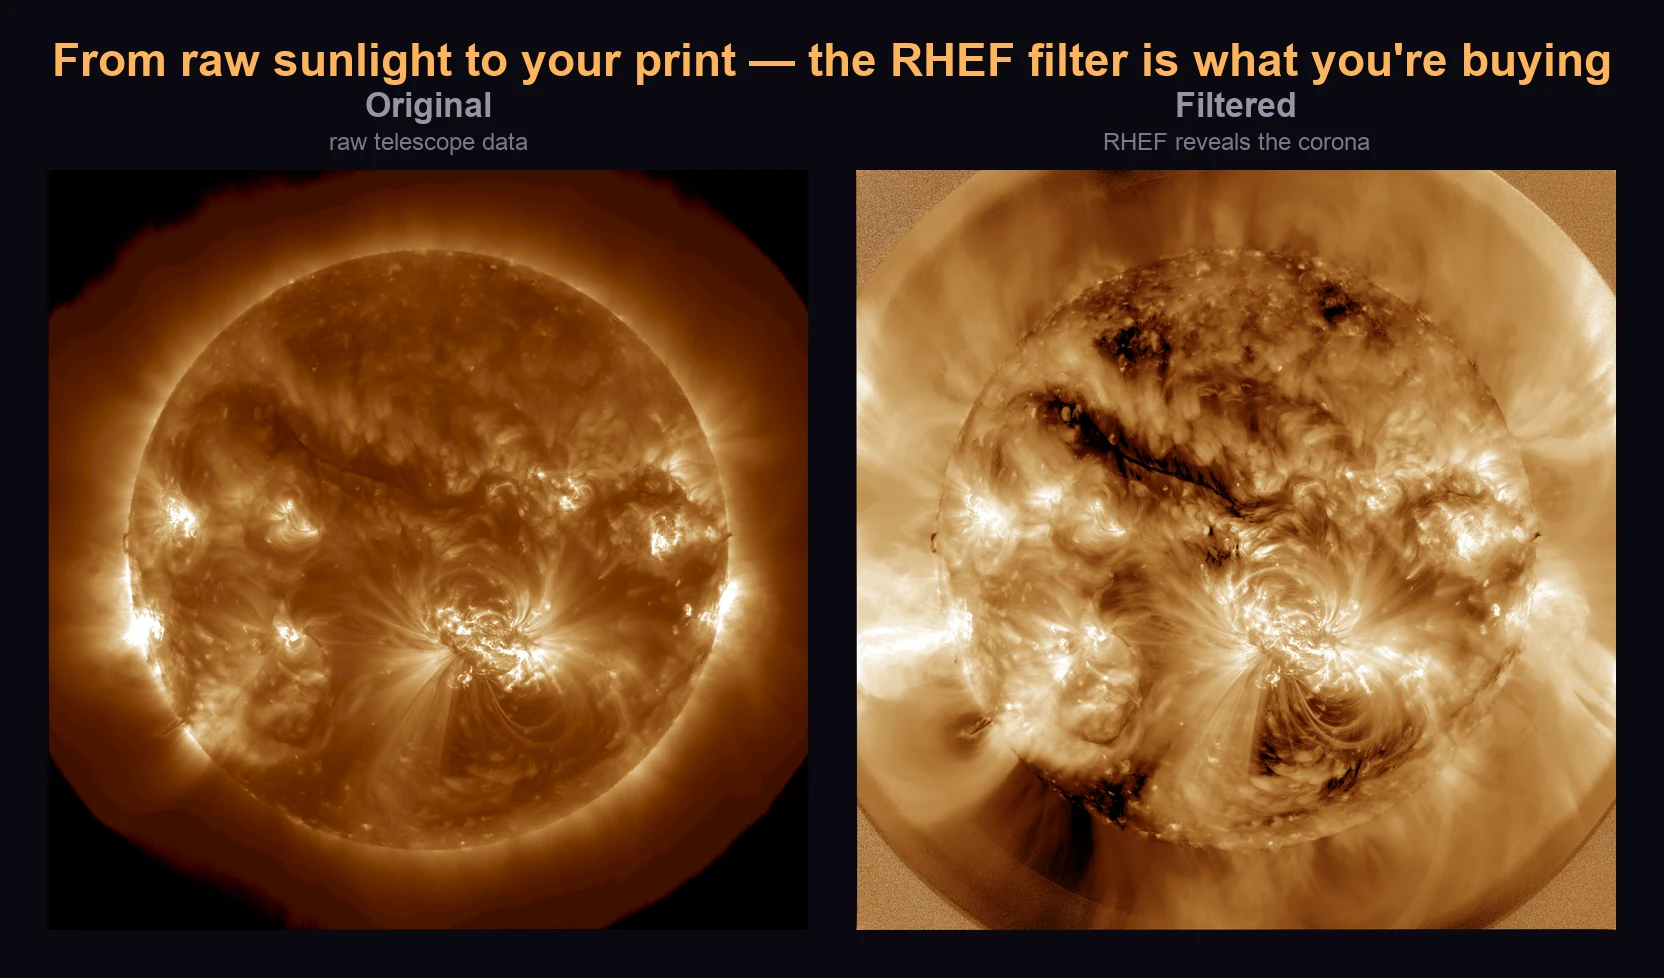
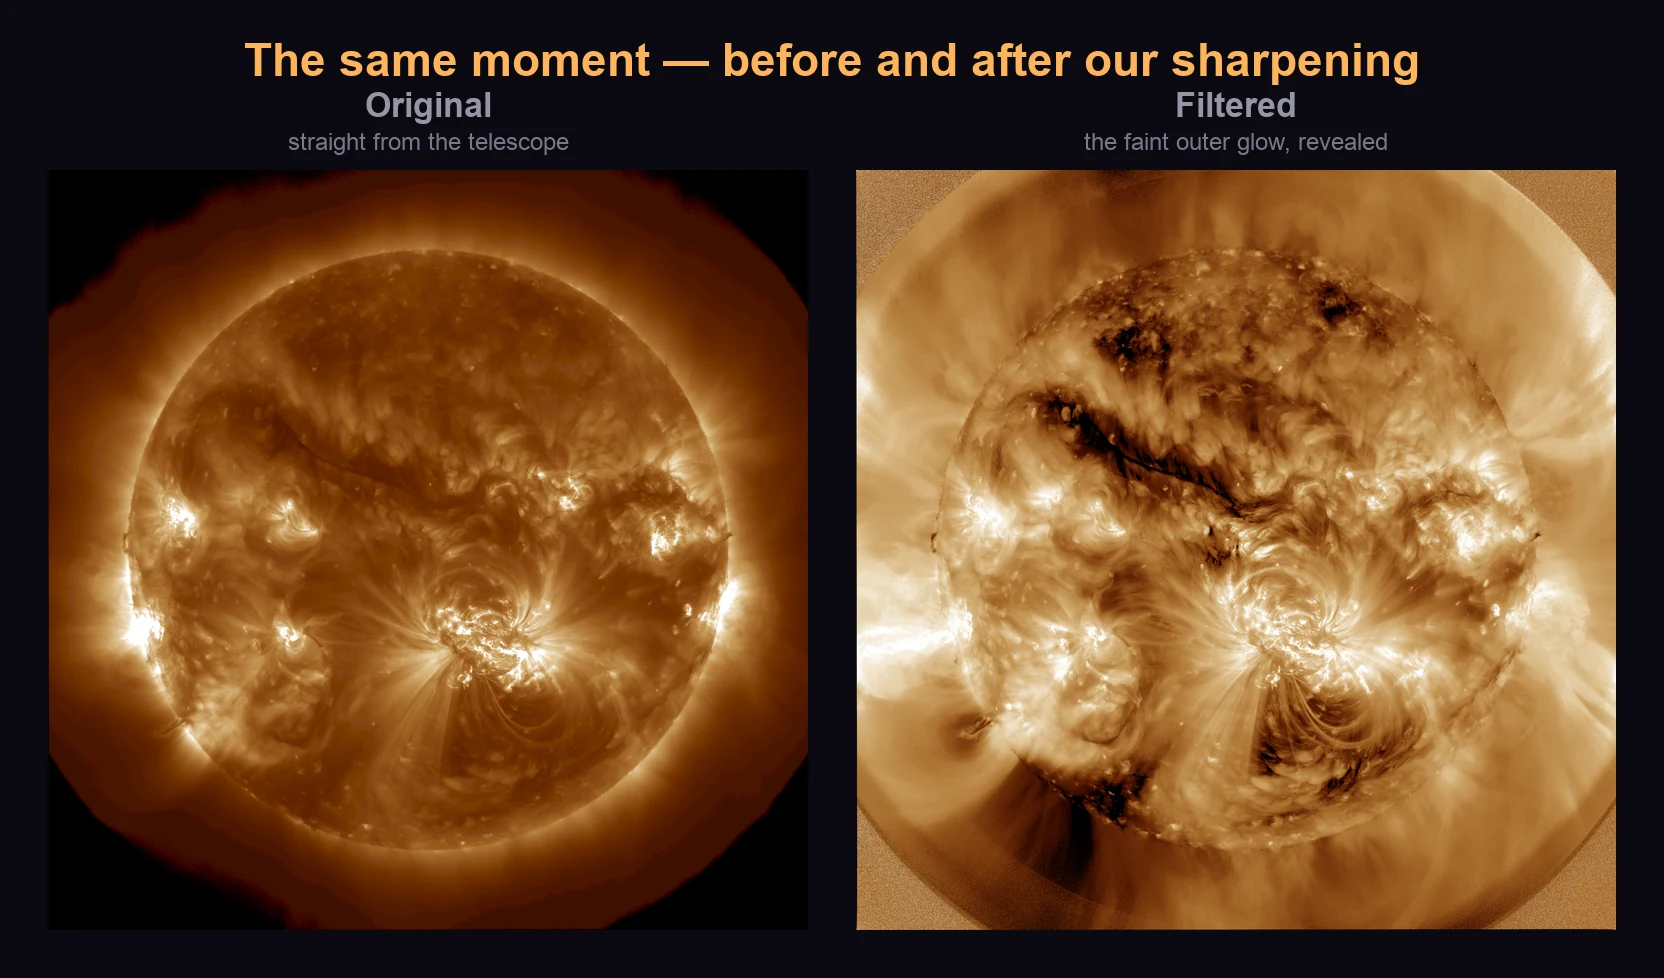
Plain language pass: translate the jargon both usability testers flagged
Both testers (2026-07-28) independently listed nearly the same ~15 unreadable
words, and it was the most-repeated complaint in each report. The one thing
both understood instantly was the Original/Filtered before-after image — so
the strategy is: lead with the picture and plain words, keep the science but
demote it. Nothing scientific is claimed that wasn't already true.

Above the shop (the worst offender). The caption was the second thing on the
page and packed four unknown words into one sentence — "Every print runs
through our RHEF filter — the algorithm that pulls the faint corona out of raw
telescope data. The HQ version is a multi-frame stack rendered at full 4K."
One tester said she thought she'd landed on a university site by mistake. Now
it just explains the picture ("Left is the raw telescope photo. Right is the
same moment after our sharpening step…"), with the method + citation moved to
a quiet fine-print line beneath. The showcase image itself was regenerated —
its baked-in headline said "the RHEF filter is what you're buying" and its
panel captions said "RHEF reveals the corona".

Wavelength tiles. Nine tiles reading "94 Å / Green · 6.3MK / Hot flaring
plasma" were called unreadable by both; one asked for "Green / Golden / Amber
with a one-word mood". The colour now leads, the description says what the
PICTURE looks like (Flare hotspots, Feathery arcs, The classic Sun, Fiery rim
& arcs…), and the ångström value stays on the tile in a quiet .wl-sci span.
[…]

Changed region(s): [[0.0312, 0.0307, 0.9688, 0.092], [0.6562, 0.1227, 0.8438, 0.1534], [0.1562, 0.1227, 0.3438, 0.1534]]

diff --git a/api/index.html b/api/index.html
@@ -133,8 +133,16 @@
        RHEF filter reads as the core innovation (not just a print-time detail).
        Static edge asset (~0.37 MB WebP); zero backend. -->
   <div class="section quality-strip-section" id="qualityStrip">
-    <img src="/asset/default/quality_strip.webp" alt="The same Sun shown before and after processing: Original (raw telescope data) and Filtered (the RHEF algorithm revealing the corona)." loading="lazy" />
-    <p class="quality-strip-caption">Every print runs through our <strong>RHEF filter</strong> — the algorithm that pulls the faint corona out of raw telescope data. The <strong>HQ</strong> version is a multi-frame stack rendered at full 4K for your print.</p>
+    <img src="/asset/default/quality_strip.webp" alt="The same Sun shown before and after processing: the original telescope photo, and the sharpened version that brings out the faint outer atmosphere." loading="lazy" />
+    <!-- Plain language first, science second. This caption is the second thing
+         on the page, above the shop, and a non-technical tester hit four
+         unknown words in one sentence here (RHEF, corona, multi-frame stack,
+         4K) and said she thought she'd landed on a university site. The
+         before/after image was the ONE thing every tester understood instantly,
+         so the caption now just explains the picture; the method + citation
+         moved to the quiet line beneath. (Usability sweep, 2026-07-28.) -->
+    <p class="quality-strip-caption">Left is the raw telescope photo. Right is the same moment after our sharpening step, which lifts the Sun&rsquo;s faint outer glow out of the dark. <strong>Every print gets the version on the right.</strong></p>
+    <p class="quality-strip-fineprint">The technique is called RHEF &mdash; published solar-physics research (Gilly et al. 2025), not a filter preset. Prints are rendered at full 4K.</p>
   </div>
 
   <div class="section" id="productSection">
@@ -144,7 +152,7 @@
     </div>
 
     <p id="productSectionIntro" style="color:var(--text-secondary);font-size:13px;margin-bottom:12px;">
-      Every preview is a real Printify mockup. The orange Sun is a sample &mdash; pick a product and you'll choose your own Sun image next.
+      These are real product photos. The Sun shown is just an example &mdash; pick a product and you&rsquo;ll choose your own Sun image next.
     </p>
 
     <div class="product-grid" id="productGrid"></div>
@@ -233,7 +241,7 @@
                user can't pick a future date. min is SDO/AIA first light. -->
           <input type="date" id="vibeBirthdayInput" class="vibe-birthday-input"
                  min="2010-05-15" aria-describedby="vibeBirthdayHint">
-          <label for="vibeBirthdayTime" class="vibe-birthday-label">Time — UTC (optional)</label>
+          <label for="vibeBirthdayTime" class="vibe-birthday-label">Time of day (optional)</label>
           <input type="time" id="vibeBirthdayTime" class="vibe-birthday-input"
                  aria-describedby="vibeBirthdayHint">
           <button type="button" id="vibeBirthdaySubmit" class="vibe-birthday-submit">
@@ -519,50 +527,50 @@
          children are decorative duplicates of the aria-label and
          carry aria-hidden so screen readers don't read them twice. -->
     <div class="wavelength-grid hidden" id="wlGrid" role="group" aria-label="Wavelength selector">
-      <button type="button" class="wl-card" data-wl="94" aria-label="94 angstrom, green, hot flaring plasma">
+      <button type="button" class="wl-card" data-wl="94" aria-label="green — flare hotspots, 94 angstrom">
         <div class="wl-thumb" data-wl="94" aria-hidden="true"></div>
-        <div class="wl-value" aria-hidden="true">94 Å</div>
-        <div class="wl-label" aria-hidden="true">Green · 6.3MK<br>Hot flaring plasma</div>
+        <div class="wl-value" aria-hidden="true">Green</div>
+        <div class="wl-label" aria-hidden="true">Flare hotspots<br><span class="wl-sci">94 Å</span></div>
       </button>
-      <button type="button" class="wl-card" data-wl="131" aria-label="131 angstrom, teal, flares and transition region">
+      <button type="button" class="wl-card" data-wl="131" aria-label="teal — flare flashes, 131 angstrom">
         <div class="wl-thumb" data-wl="131" aria-hidden="true"></div>
-        <div class="wl-value" aria-hidden="true">131 Å</div>
-        <div class="wl-label" aria-hidden="true">Teal · 10MK<br>Flares / transition</div>
+        <div class="wl-value" aria-hidden="true">Teal</div>
+        <div class="wl-label" aria-hidden="true">Flare flashes<br><span class="wl-sci">131 Å</span></div>
       </button>
-      <button type="button" class="wl-card selected" data-wl="171" aria-label="171 angstrom, golden, quiet corona with loops">
+      <button type="button" class="wl-card selected" data-wl="171" aria-label="gold — feathery arcs, 171 angstrom">
         <div class="wl-thumb" data-wl="171" aria-hidden="true"></div>
-        <div class="wl-value" aria-hidden="true">171 Å</div>
-        <div class="wl-label" aria-hidden="true">Golden · 0.8MK<br>Quiet corona, loops</div>
+        <div class="wl-value" aria-hidden="true">Gold</div>
+        <div class="wl-label" aria-hidden="true">Feathery arcs<br><span class="wl-sci">171 Å</span></div>
       </button>
-      <button type="button" class="wl-card" data-wl="193" aria-label="193 angstrom, amber, corona and flares">
+      <button type="button" class="wl-card" data-wl="193" aria-label="amber — the classic Sun, 193 angstrom">
         <div class="wl-thumb" data-wl="193" aria-hidden="true"></div>
-        <div class="wl-value" aria-hidden="true">193 Å</div>
-        <div class="wl-label" aria-hidden="true">Amber · 1.5MK<br>Corona / flares</div>
+        <div class="wl-value" aria-hidden="true">Amber</div>
+        <div class="wl-label" aria-hidden="true">The classic Sun<br><span class="wl-sci">193 Å</span></div>
       </button>
-      <button type="button" class="wl-card" data-wl="211" aria-label="211 angstrom, purple, active regions">
+      <button type="button" class="wl-card" data-wl="211" aria-label="purple — storm regions, 211 angstrom">
         <div class="wl-thumb" data-wl="211" aria-hidden="true"></div>
-        <div class="wl-value" aria-hidden="true">211 Å</div>
-        <div class="wl-label" aria-hidden="true">Purple · 2.0MK<br>Active regions</div>
+        <div class="wl-value" aria-hidden="true">Purple</div>
+        <div class="wl-label" aria-hidden="true">Storm regions<br><span class="wl-sci">211 Å</span></div>
       </button>
-      <button type="button" class="wl-card" data-wl="304" aria-label="304 angstrom, red, chromosphere">
+      <button type="button" class="wl-card" data-wl="304" aria-label="red — fiery rim and arcs, 304 angstrom">
         <div class="wl-thumb" data-wl="304" aria-hidden="true"></div>
-        <div class="wl-value" aria-hidden="true">304 Å</div>
-        <div class="wl-label" aria-hidden="true">Red · 0.05MK<br>Chromosphere</div>
+        <div class="wl-value" aria-hidden="true">Red</div>
+        <div class="wl-label" aria-hidden="true">Fiery rim &amp; arcs<br><span class="wl-sci">304 Å</span></div>
       </button>
-      <button type="button" class="wl-card" data-wl="335" aria-label="335 angstrom, blue, active regions">
+      <button type="button" class="wl-card" data-wl="335" aria-label="blue — magnetic hotspots, 335 angstrom">
         <div class="wl-thumb" data-wl="335" aria-hidden="true"></div>
-        <div class="wl-value" aria-hidden="true">335 Å</div>
-        <div class="wl-label" aria-hidden="true">Blue · 2.5MK<br>Active regions</div>
+        <div class="wl-value" aria-hidden="true">Blue</div>
+        <div class="wl-label" aria-hidden="true">Magnetic hotspots<br><span class="wl-sci">335 Å</span></div>
       </button>
-      <button type="button" class="wl-card" data-wl="1600" aria-label="1600 angstrom, ultraviolet, transition region">
+      <button type="button" class="wl-card" data-wl="1600" aria-label="ultraviolet — surface hotspots, 1600 angstrom">
         <div class="wl-thumb" data-wl="1600" aria-hidden="true"></div>
-        <div class="wl-value" aria-hidden="true">1600 Å</div>
-        <div class="wl-label" aria-hidden="true">UV · 0.1MK<br>Transition region</div>
+        <div class="wl-value" aria-hidden="true">UV</div>
+        <div class="wl-label" aria-hidden="true">Surface hotspots<br><span class="wl-sci">1600 Å</span></div>
       </button>
-      <button type="button" class="wl-card" data-wl="1700" aria-label="1700 angstrom, ultraviolet, photosphere">
+      <button type="button" class="wl-card" data-wl="1700" aria-label="ultraviolet — the visible surface, 1700 angstrom">
         <div class="wl-thumb" data-wl="1700" aria-hidden="true"></div>
-        <div class="wl-value" aria-hidden="true">1700 Å</div>
-        <div class="wl-label" aria-hidden="true">UV · 5000K<br>Photosphere</div>
+        <div class="wl-value" aria-hidden="true">UV</div>
+        <div class="wl-label" aria-hidden="true">The visible surface<br><span class="wl-sci">1700 Å</span></div>
       </button>
     </div>
     </div><!-- /#configSectionBody -->
@@ -652,7 +660,7 @@
             <i class="fas fa-shapes" aria-hidden="true"></i> Change product
           </button>
           <button type="button" class="edit-btn edit-btn-nav" id="btnChangeVariant" title="Open the variant picker for the current product (size / color / etc.)">
-            <i class="fas fa-swatchbook" aria-hidden="true"></i> Change variant
+            <i class="fas fa-swatchbook" aria-hidden="true"></i> Change size / colour
           </button>
         </div>
       </div>
@@ -1139,7 +1147,7 @@
   <div class="confirm-modal-panel">
     <button class="confirm-modal-close" id="confirmSelectClose" type="button" aria-label="Close">&#x2715;</button>
     <h2 class="confirm-modal-title" id="confirmSelectTitle">Choose your size &amp; options</h2>
-    <p class="confirm-modal-sub" id="confirmSelectSub">Tap a variant to preview, then pick your image.</p>
+    <p class="confirm-modal-sub" id="confirmSelectSub">Choose a size and colour, then pick your image.</p>
     <div class="confirm-mockup" id="confirmSelectMockup" aria-hidden="true"></div>
     <div class="confirm-variant-summary" id="confirmSelectSummary"></div>
     <!-- Colour-swatch row: rendered only when this product's variants

diff --git a/api/solar-archive.js b/api/solar-archive.js
@@ -1218,7 +1218,7 @@ import { saveDesignLocally, initBundler } from "./bundler.js";
         intro.innerHTML = "Your image looks great on all of these. Click any card to switch your selection \u2014 or stick with what you have and head to checkout.";
       } else {
         title.textContent = "Choose your product";
-        intro.innerHTML = "Click <strong>Pick a variant</strong>, choose your size/color, then pick the Sun image you want printed.";
+        intro.innerHTML = "Click <strong>Choose size &amp; colour</strong>, then pick the Sun image you want printed.";
       }
     }
 
@@ -2712,7 +2712,7 @@ import { saveDesignLocally, initBundler } from "./bundler.js";
               // landed (JPG/Raw) stays usable, and the timeline drops back
               // to a clickable state so the user can retry a tier.
               if (typeof updateFilterTimelineUI === "function") updateFilterTimelineUI();
-              showToast("Science data failed: " + ((err && err.message) || err) + " — tap a quality step to retry.", "error");
+              showToast("Couldn't load the sharper version: " + ((err && err.message) || err) + " — tap a quality step to try again.", "error");
               updateFilterStatusLine("", "");
             });
           })();
@@ -3814,7 +3814,7 @@ import { saveDesignLocally, initBundler } from "./bundler.js";
       } else if (event.ar_number) {
         metaHtml = '<span class="hek-tile-meta">NOAA AR ' + escapeHtml(String(event.ar_number)) + '</span>';
       } else if (event.fallback) {
-        metaHtml = '<span class="hek-tile-meta">No notable events catalogued</span>';
+        metaHtml = '<span class="hek-tile-meta">A calm, quiet Sun that day</span>';
       }
       // Roving tabindex per WAI-ARIA radiogroup pattern: only the first
       // (or currently-checked) radio is tabbable; the rest are tabindex=-1
@@ -3892,7 +3892,7 @@ import { saveDesignLocally, initBundler } from "./bundler.js";
       var sub = document.getElementById("hekPickerSub");
       if (sub) {
         if (!_hekCurrentEvents.length || (_hekCurrentEvents.length === 1 && _hekCurrentEvents[0].fallback)) {
-          sub.textContent = "No notable events catalogued for " + dateStr + ". Use noon UTC or set a custom time.";
+          sub.textContent = "The Sun was calm on " + dateStr + " — a clean, quiet portrait. We'll use midday, or pick your own time below.";
         } else {
           sub.textContent = "Top " + _hekCurrentEvents.length +
             " event" + (_hekCurrentEvents.length === 1 ? "" : "s") +
@@ -9652,7 +9652,7 @@ import { saveDesignLocally, initBundler } from "./bundler.js";
       }
       var labelSpan = btn.querySelector(".product-select-btn-label");
       if (labelSpan) {
-        labelSpan.textContent = open ? "Hide variants" : "Pick a variant";
+        labelSpan.textContent = open ? "Hide sizes" : "Choose size & colour";
       }
     }
 
@@ -10153,7 +10153,7 @@ import { saveDesignLocally, initBundler } from "./bundler.js";
       if (product.id === "wall_clock") {
         html += '<p class="variant-clock-note">Some options differ by hand color (white vs black).</p>';
       }
-      html += '<p class="variant-pick-hint">Tap <strong>Pick a variant</strong> above to change.</p>';
+      html += '<p class="variant-pick-hint">Tap <strong>Choose size &amp; colour</strong> above to change.</p>';
       html += '</div>';
       panel.innerHTML = html;
 
@@ -12669,8 +12669,8 @@ import { saveDesignLocally, initBundler } from "./bundler.js";
       if (titleEl) titleEl.textContent = product.name;
       if (subEl) {
         subEl.textContent = product._isUserRequested
-          ? "Your request (pending review). Tap a variant, then continue to your image."
-          : "Tap a variant to preview, then pick your image.";
+          ? "Your request (pending review). Choose a size and colour, then continue to your image."
+          : "Choose a size and colour, then pick your image.";
       }
 
       function _variantsList() {

diff --git a/api/solar-archive.css b/api/solar-archive.css
@@ -268,6 +268,15 @@ body::before {
   line-height: 1.45;
 }
 .quality-strip-caption strong { color: var(--accent-sun, #f5a623); font-weight: 600; }
+/* The method + citation, demoted below the plain-language caption. */
+.quality-strip-fineprint {
+  max-width: 760px;
+  margin: 6px auto 0;
+  color: var(--text-secondary);
+  font-size: 0.72rem;
+  line-height: 1.45;
+  opacity: 0.62;
+}
 
 /* Backend status banner removed from the UI — the landing is zero-backend
    and warms in the background, so "checking/online" was pure noise. Hidden
@@ -903,7 +912,7 @@ select:focus-visible {
   vertical-align: middle;
 }
 .filter-step-status[data-status="locked"]::before {
-  content: "\f023 Locked";
+  content: "\f017 Not ready yet";
   font-family: "Font Awesome 6 Free", "Font Awesome 5 Free", sans-serif;
   font-weight: 900;
   /* Removed letter-spacing: 0.4em — the wide-tracked uppercase-feeling
@@ -1110,10 +1119,21 @@ select:focus-visible {
   to { transform: rotate(360deg); }
 }
 
+/* Colour name now leads the tile (was the raw "94 Å"). Two usability testers
+   (2026-07-28) independently called nine angstrom numbers unreadable; one
+   asked for "Green / Golden / Amber with a one-word mood". The wavelength is
+   still on the tile, demoted to .wl-sci. */
 .wl-value {
+  font-family: inherit;
+  font-size: 1.05rem;
+  font-weight: 600;
+  letter-spacing: 0.01em;
+}
+/* The science, kept but quiet. */
+.wl-sci {
   font-family: 'JetBrains Mono', monospace;
-  font-size: 1.1rem;
-  font-weight: 500;
+  font-size: 0.68em;
+  opacity: 0.6;
 }
 
 .wl-label {
